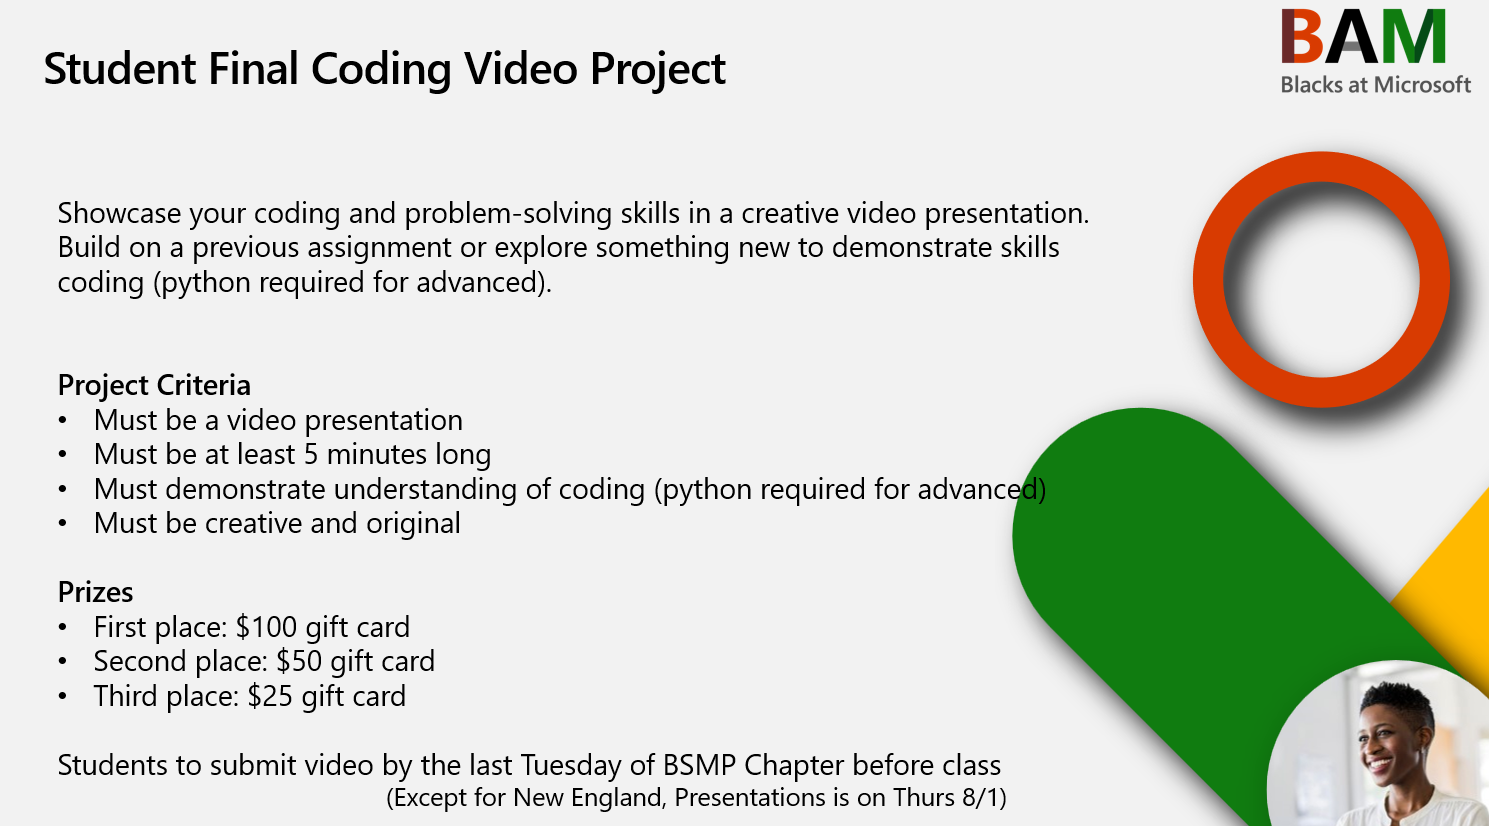
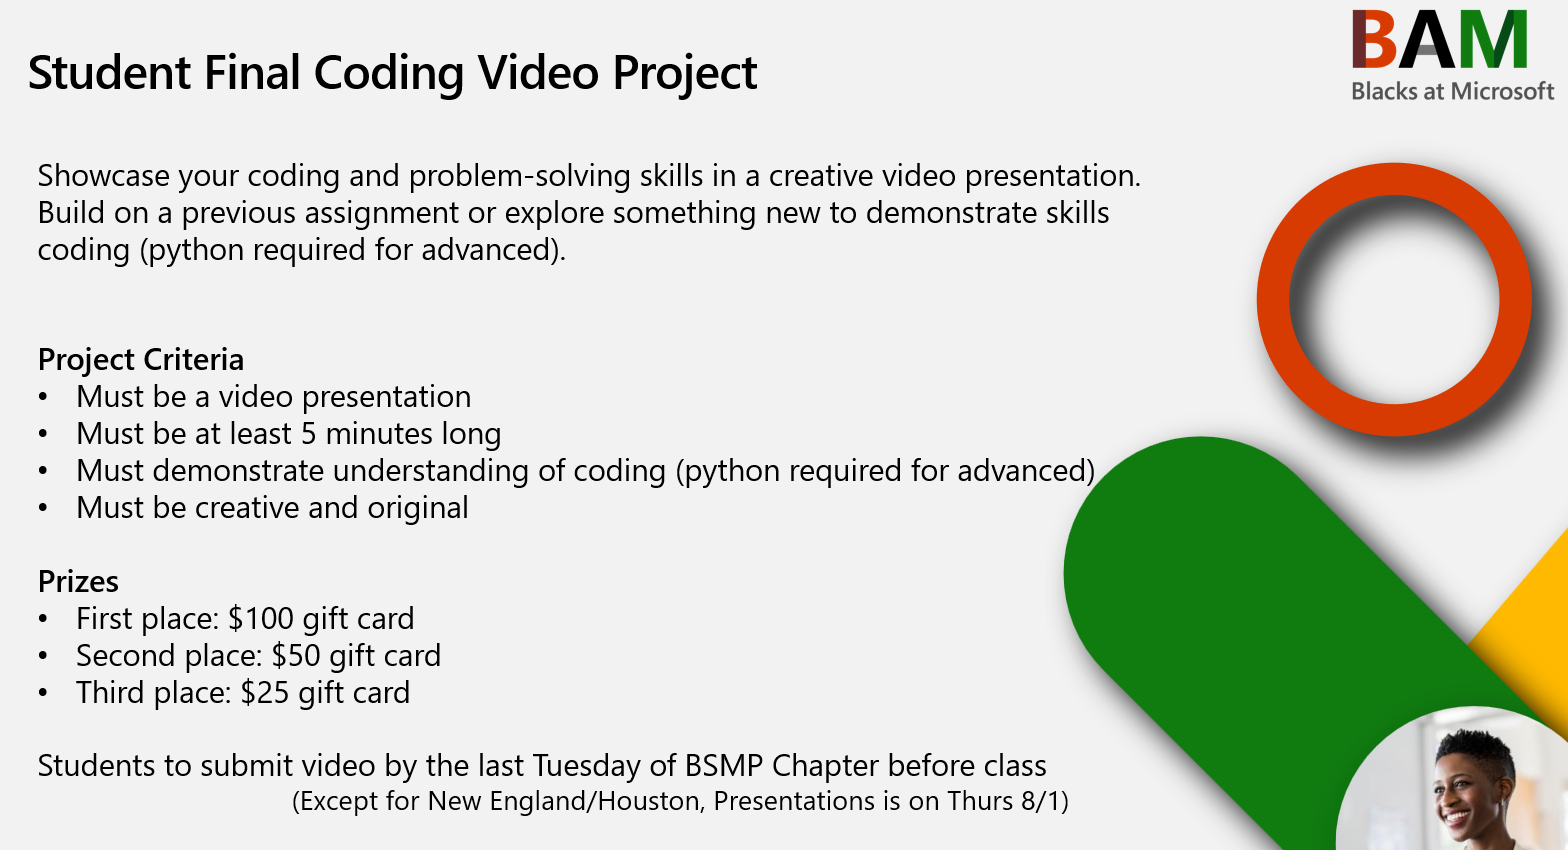
student video project update

diff --git a/lessons/student_video_project/final_projects.md b/lessons/student_video_project/final_projects.md
@@ -4,8 +4,8 @@
 
 Students to submit video by the last Tuesday of BSMP Chapter before class
 
-(Except for New England, Presentations is on Thurs 8/1) 
+(Except for New England and Houston, Presentations is on Thurs 8/1) 
 
 Student Coding Project Submission form: https://forms.office.com/r/eqjhnYgSS6
 
-![](../../_media/lessons/submission_form_excerpt_tbd.png)
+![](../../_media/lessons/submission_form_excerpt.png)
